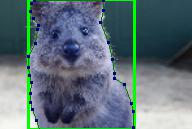
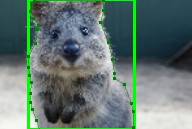
Improve images for small overview

diff --git a/generate_main_repo_readme_images.py b/generate_main_repo_readme_images.py
@@ -25,12 +25,12 @@ IMAGES_DIR = "readme_images"
 
 def main():
     draw_small_overview()
-    draw_single_sequential_images()
-    draw_per_augmenter_videos()
+    #draw_single_sequential_images()
+    #draw_per_augmenter_videos()
 
 
 def draw_small_overview():
-    ia.seed(42)
+    ia.seed(44)
     image = ia.quokka(size=0.2)
     heatmap = ia.quokka_heatmap(size=0.2)
     segmap = ia.quokka_segmentation_map(size=0.2)
@@ -69,12 +69,13 @@ def draw_small_overview():
         image_aug_bbs = result.bounding_boxes_aug[0].clip_out_of_image().draw_on_image(image_aug, thickness=3)
         # add polys for now to BBs image to save (screen) space
         image_aug_bbs = result.polygons_aug[0].clip_out_of_image().draw_on_image(
-            image_aug_bbs, color=[0, 0, 255], color_points=[0, 0, 128], alpha=0.1, alpha_points=1.0)
-        imageio.imwrite(os.path.join(IMAGES_DIR, "small_overview", "%s_image.jpg" % (name,)), image_aug)
-        imageio.imwrite(os.path.join(IMAGES_DIR, "small_overview", "%s_heatmap.jpg" % (name,)), image_aug_heatmap)
-        imageio.imwrite(os.path.join(IMAGES_DIR, "small_overview", "%s_segmap.jpg" % (name,)), image_aug_segmap)
-        imageio.imwrite(os.path.join(IMAGES_DIR, "small_overview", "%s_kps.jpg" % (name,)), image_aug_kps)
-        imageio.imwrite(os.path.join(IMAGES_DIR, "small_overview", "%s_bbs.jpg" % (name,)), image_aug_bbs)
+            image_aug_bbs, color=[0, 128, 0], color_points=[0, 128, 0], alpha=0.0,
+            alpha_points=1.0, alpha_perimeter=0.5)
+        imageio.imwrite(os.path.join(IMAGES_DIR, "small_overview", "%s_image.jpg" % (name,)), image_aug, quality=90)
+        imageio.imwrite(os.path.join(IMAGES_DIR, "small_overview", "%s_heatmap.jpg" % (name,)), image_aug_heatmap, quality=90)
+        imageio.imwrite(os.path.join(IMAGES_DIR, "small_overview", "%s_segmap.jpg" % (name,)), image_aug_segmap, quality=90)
+        imageio.imwrite(os.path.join(IMAGES_DIR, "small_overview", "%s_kps.jpg" % (name,)), image_aug_kps, quality=90)
+        imageio.imwrite(os.path.join(IMAGES_DIR, "small_overview", "%s_bbs.jpg" % (name,)), image_aug_bbs, quality=90)
 
 
 def draw_single_sequential_images():
